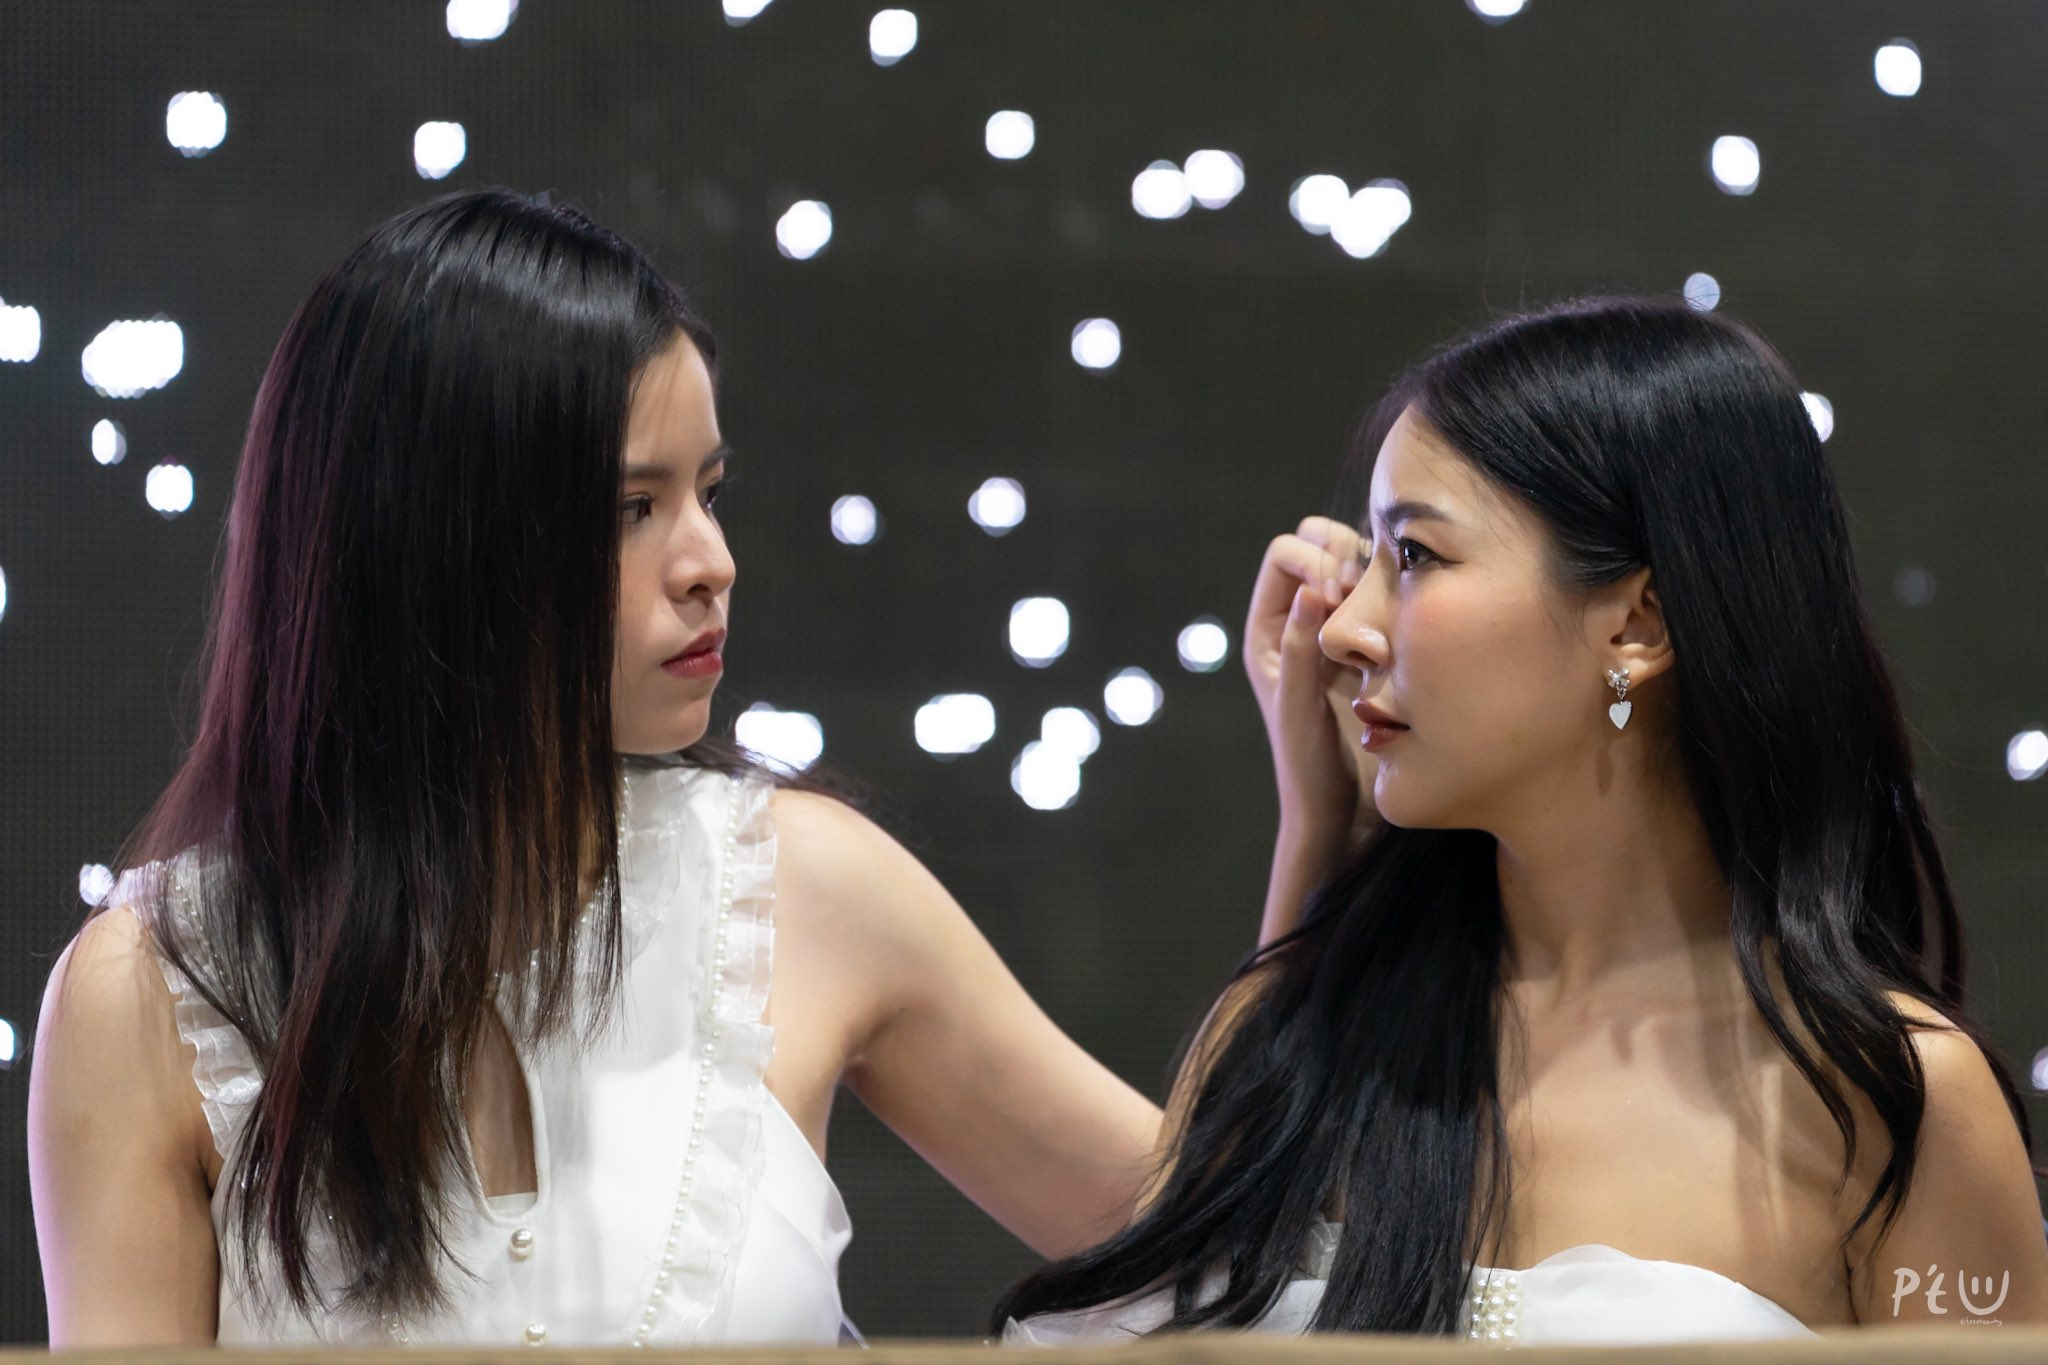
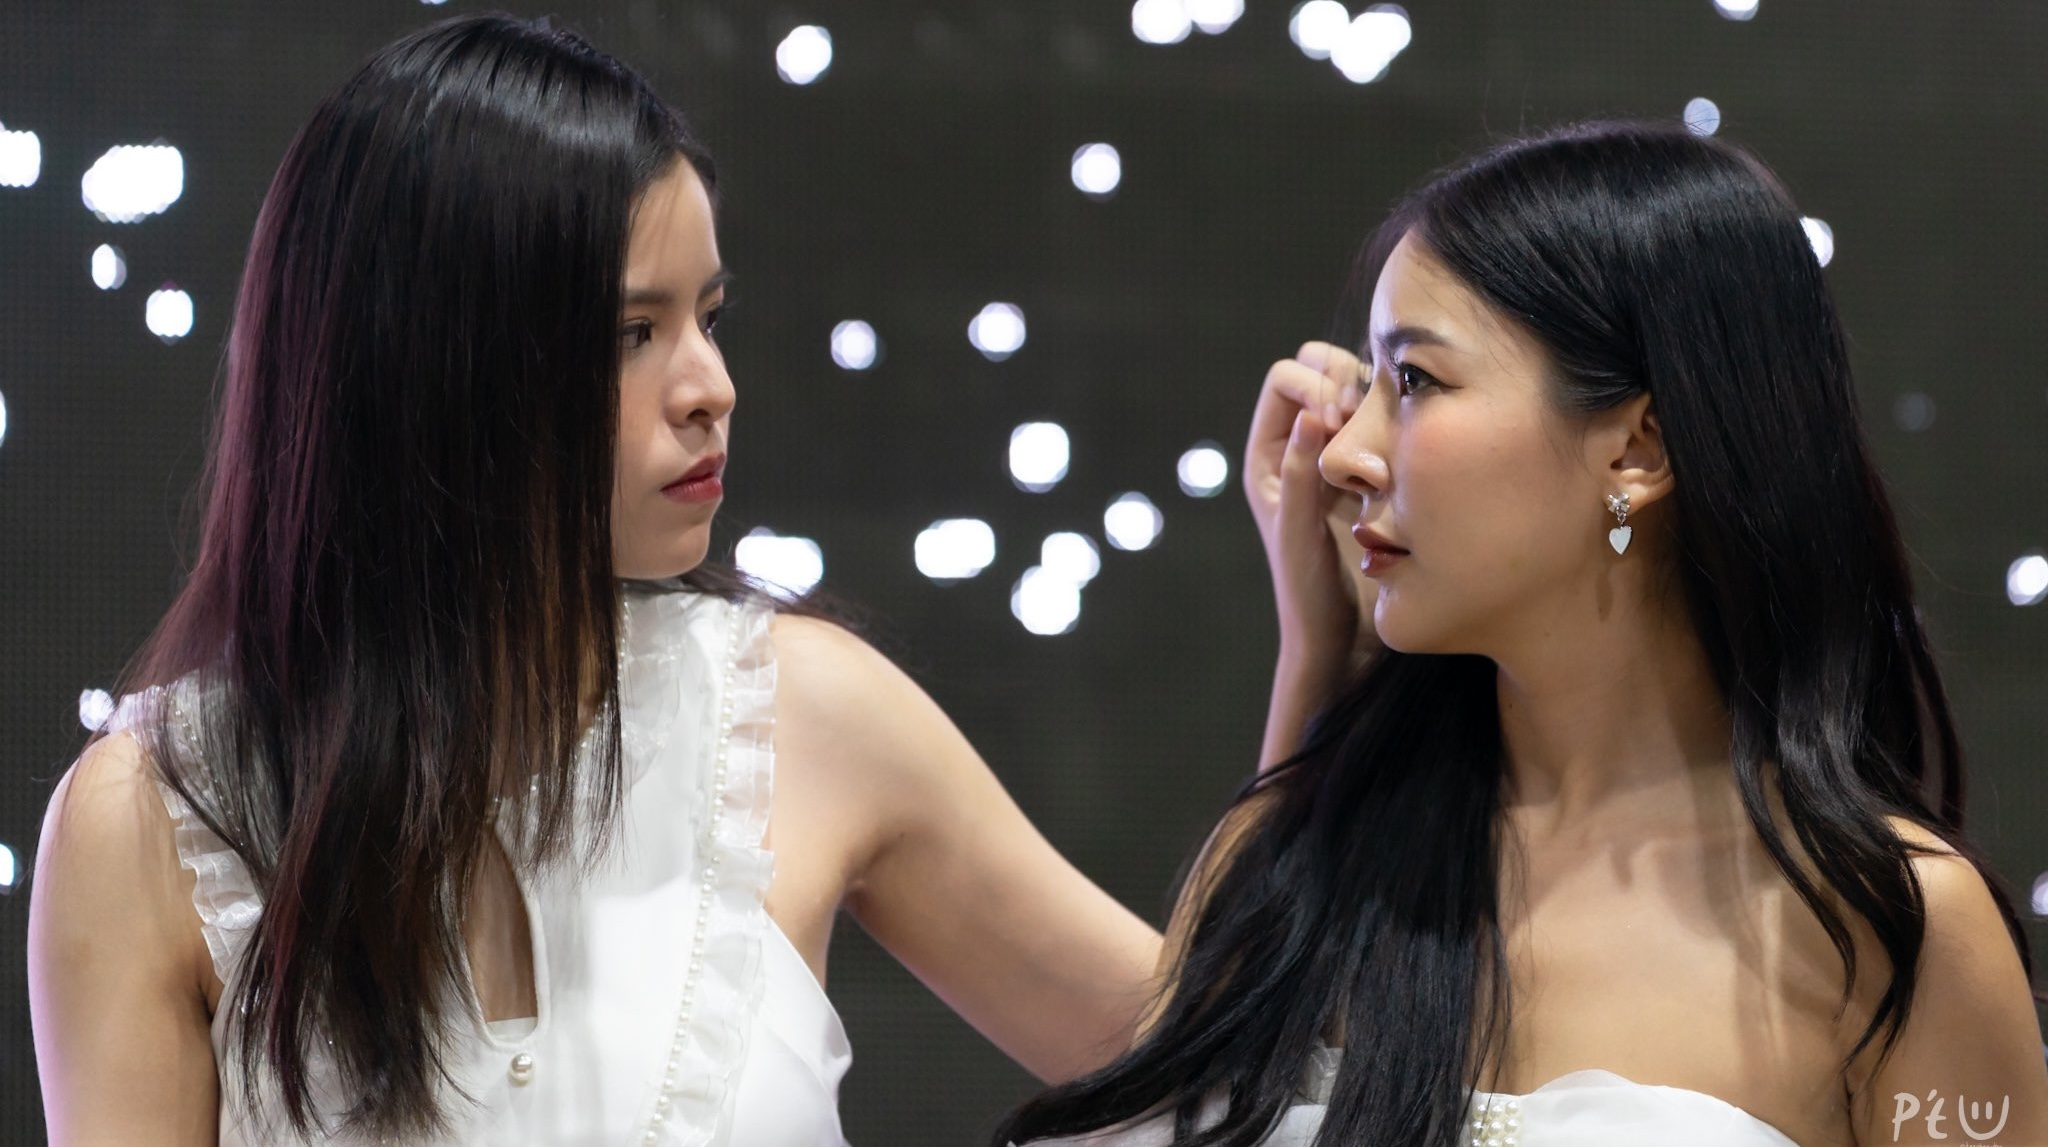
updated images and hide dots

diff --git a/assets/js/custom.js b/assets/js/custom.js
@@ -1,7 +1,7 @@
 document.addEventListener('DOMContentLoaded', function() {
     if (typeof jQuery !== 'undefined' && typeof jQuery.fn.slick !== 'undefined') {
         jQuery('.carousel').slick({
-            dots: true,
+            dots: false,
             infinite: true,
             speed: 500,
             slidesToShow: 1,

diff --git a/3_landing.md b/3_landing.md
@@ -2,7 +2,7 @@
 title: Fan Creations
 layout: landing
 description: ""
-image: assets/images/fmbannerkiss.jpg
+image: assets/images/fmdreamkiss.jpg
 nav-menu: true
 ---
 
